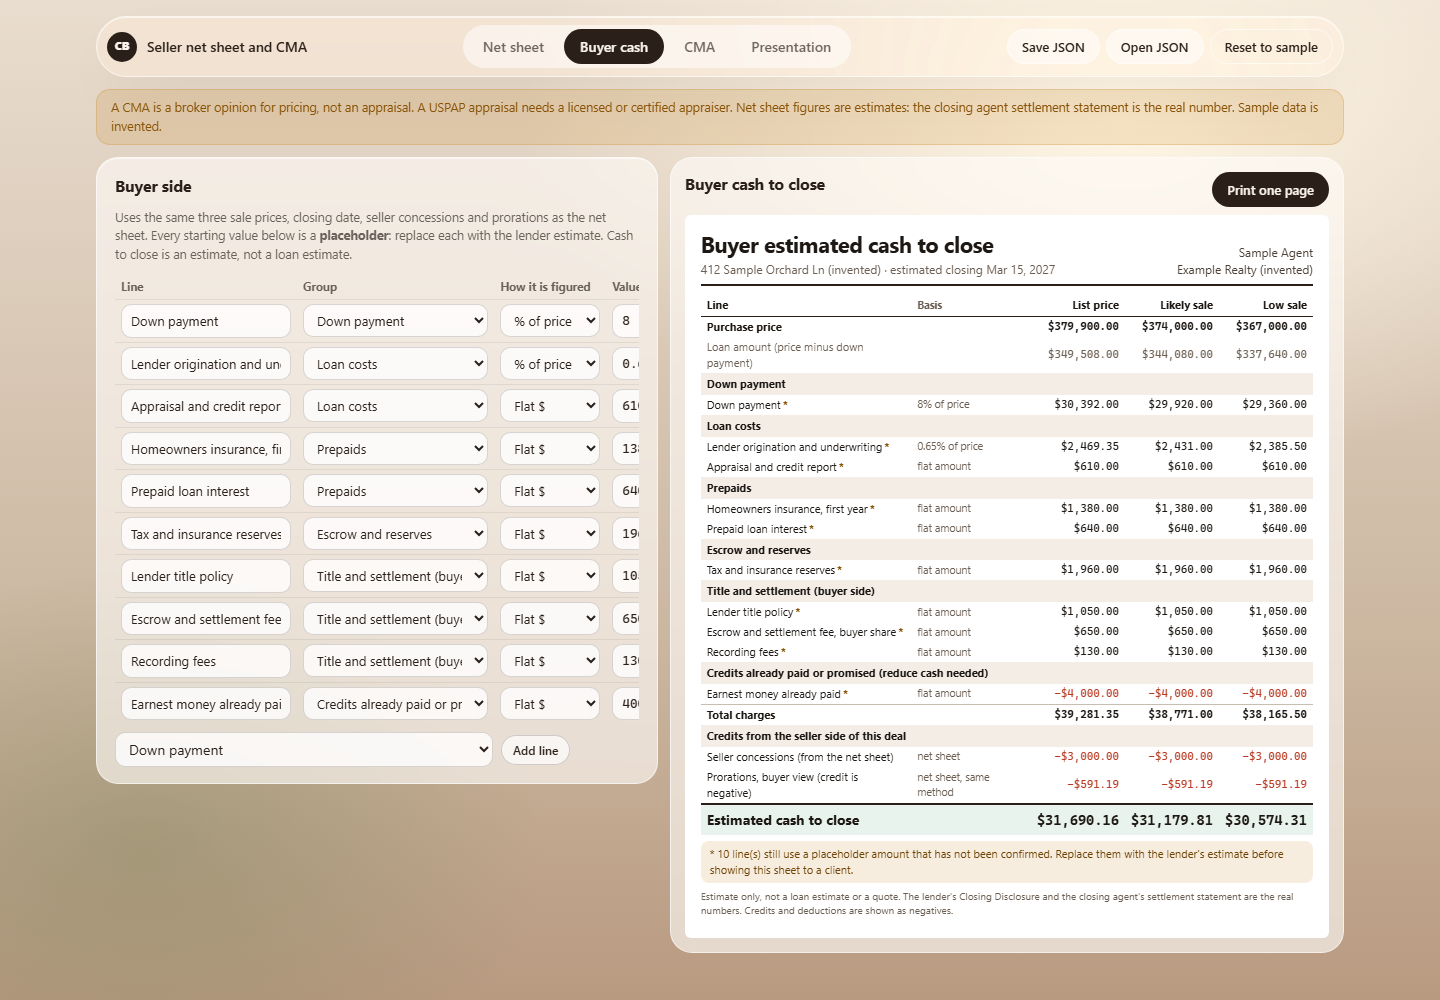
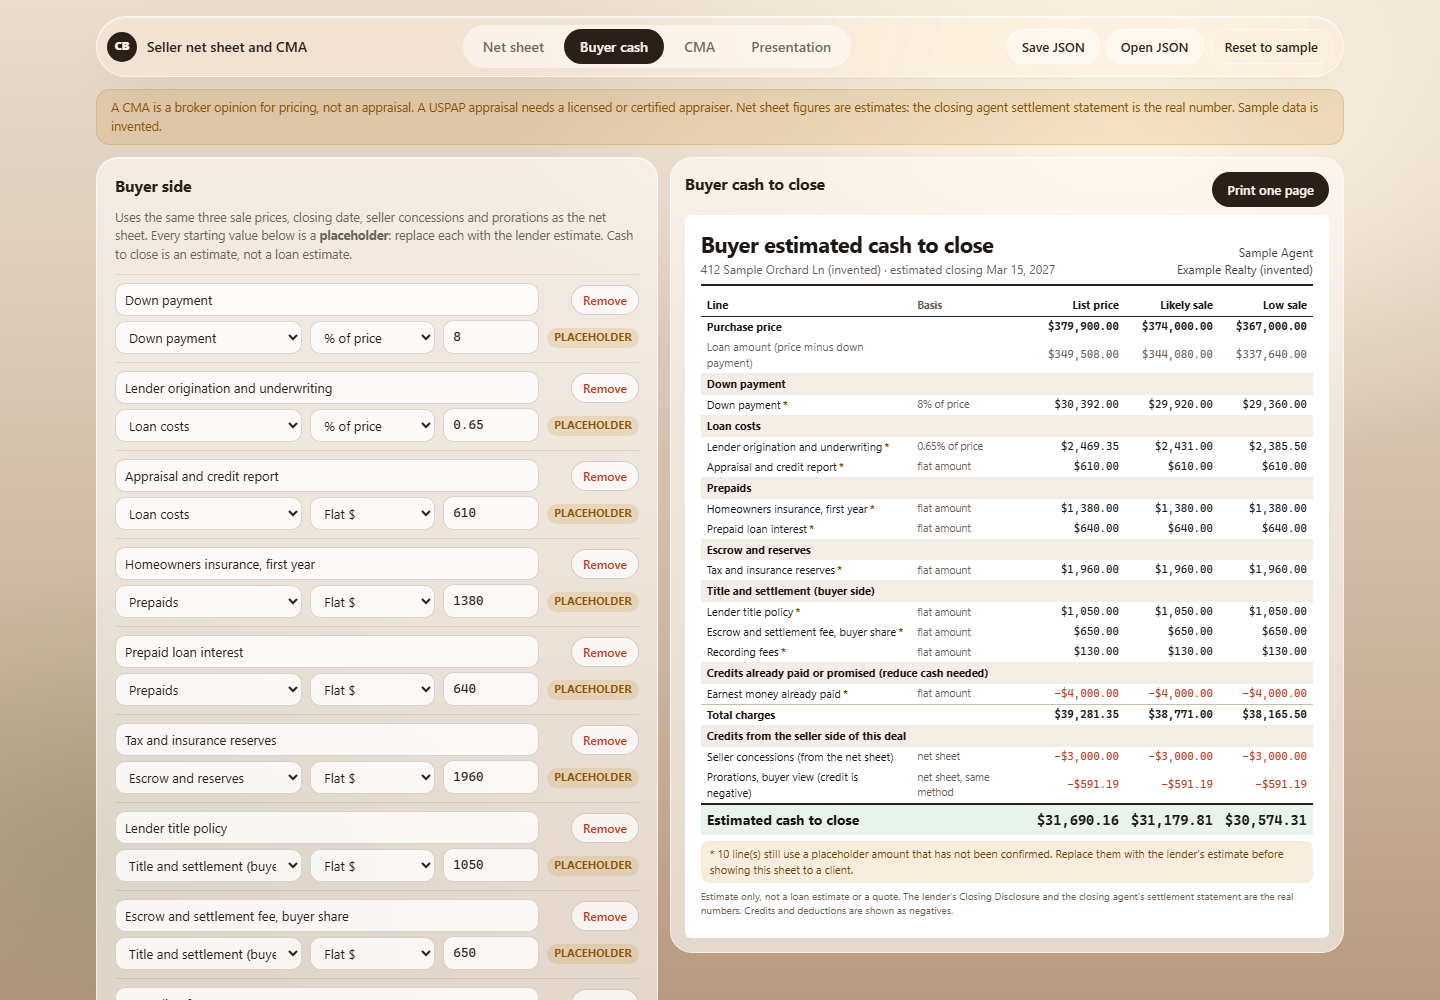
Show every field of the cost line tables in the narrow column; refresh screenshots
Each cost line is now a two-row card (label and remove, then group, method, value, placeholder badge) instead of a clipped scrolling table.

Changed region(s): [[0.0625, 0.279, 0.4688, 1.0]]

diff --git a/src/style.css b/src/style.css
@@ -56,7 +56,7 @@ input.note { min-width: 100px }
 .chk input { width: auto }
 .formula { margin-top: 8px; font-size: 12.5px; color: var(--ink-2); background: rgba(255, 255, 255, .55); border-radius: 10px; padding: 7px 10px; font-family: var(--f-num) }
 .tscroll { overflow-x: auto }
-table.lines { width: 100%; min-width: 800px; border-collapse: collapse; font-size: 13px }
+table.lines { width: 100%;  border-collapse: collapse; font-size: 13px }
 table.lines th { text-align: left; font-size: 11.5px; color: var(--ink-2); padding: 4px 6px; white-space: nowrap }
 table.lines td { padding: 4px 6px; vertical-align: middle; border-top: 1px solid rgba(42, 32, 25, .08) }
 table.comps td { font-size: 12.5px }
@@ -132,4 +132,15 @@ table.grid th.l, table.grid td.l { text-align: left } table.grid td.adjl { font-
   .sheet-page:not(:has(.pfoot)) { min-height: 0; height: auto }
 }
 .cols > * { min-width: 0 }
-table.lines td:first-child input { min-width: 170px }
+/* cost line tables: two-row cards so every field is visible in the narrow column */
+table.lines:not(.comps) { min-width: 0; display: block }
+table.lines:not(.comps) thead { display: none }
+table.lines:not(.comps) tbody { display: block }
+table.lines:not(.comps) tr { display: grid; grid-template-columns: minmax(0, 1.5fr) minmax(0, 1fr) 96px auto; gap: 4px 8px; padding: 8px 0; border-top: 1px solid rgba(42, 32, 25, .1); align-items: center }
+table.lines:not(.comps) td { display: block; padding: 0; border: 0; min-width: 0 }
+table.lines:not(.comps) td:nth-child(1) { grid-column: 1 / 4; grid-row: 1 }
+table.lines:not(.comps) td:nth-child(6) { grid-column: 4; grid-row: 1; text-align: right }
+table.lines:not(.comps) td:nth-child(2) { grid-column: 1; grid-row: 2 }
+table.lines:not(.comps) td:nth-child(3) { grid-column: 2; grid-row: 2 }
+table.lines:not(.comps) td:nth-child(4) { grid-column: 3; grid-row: 2 }
+table.lines:not(.comps) td:nth-child(5) { grid-column: 4; grid-row: 2 }
